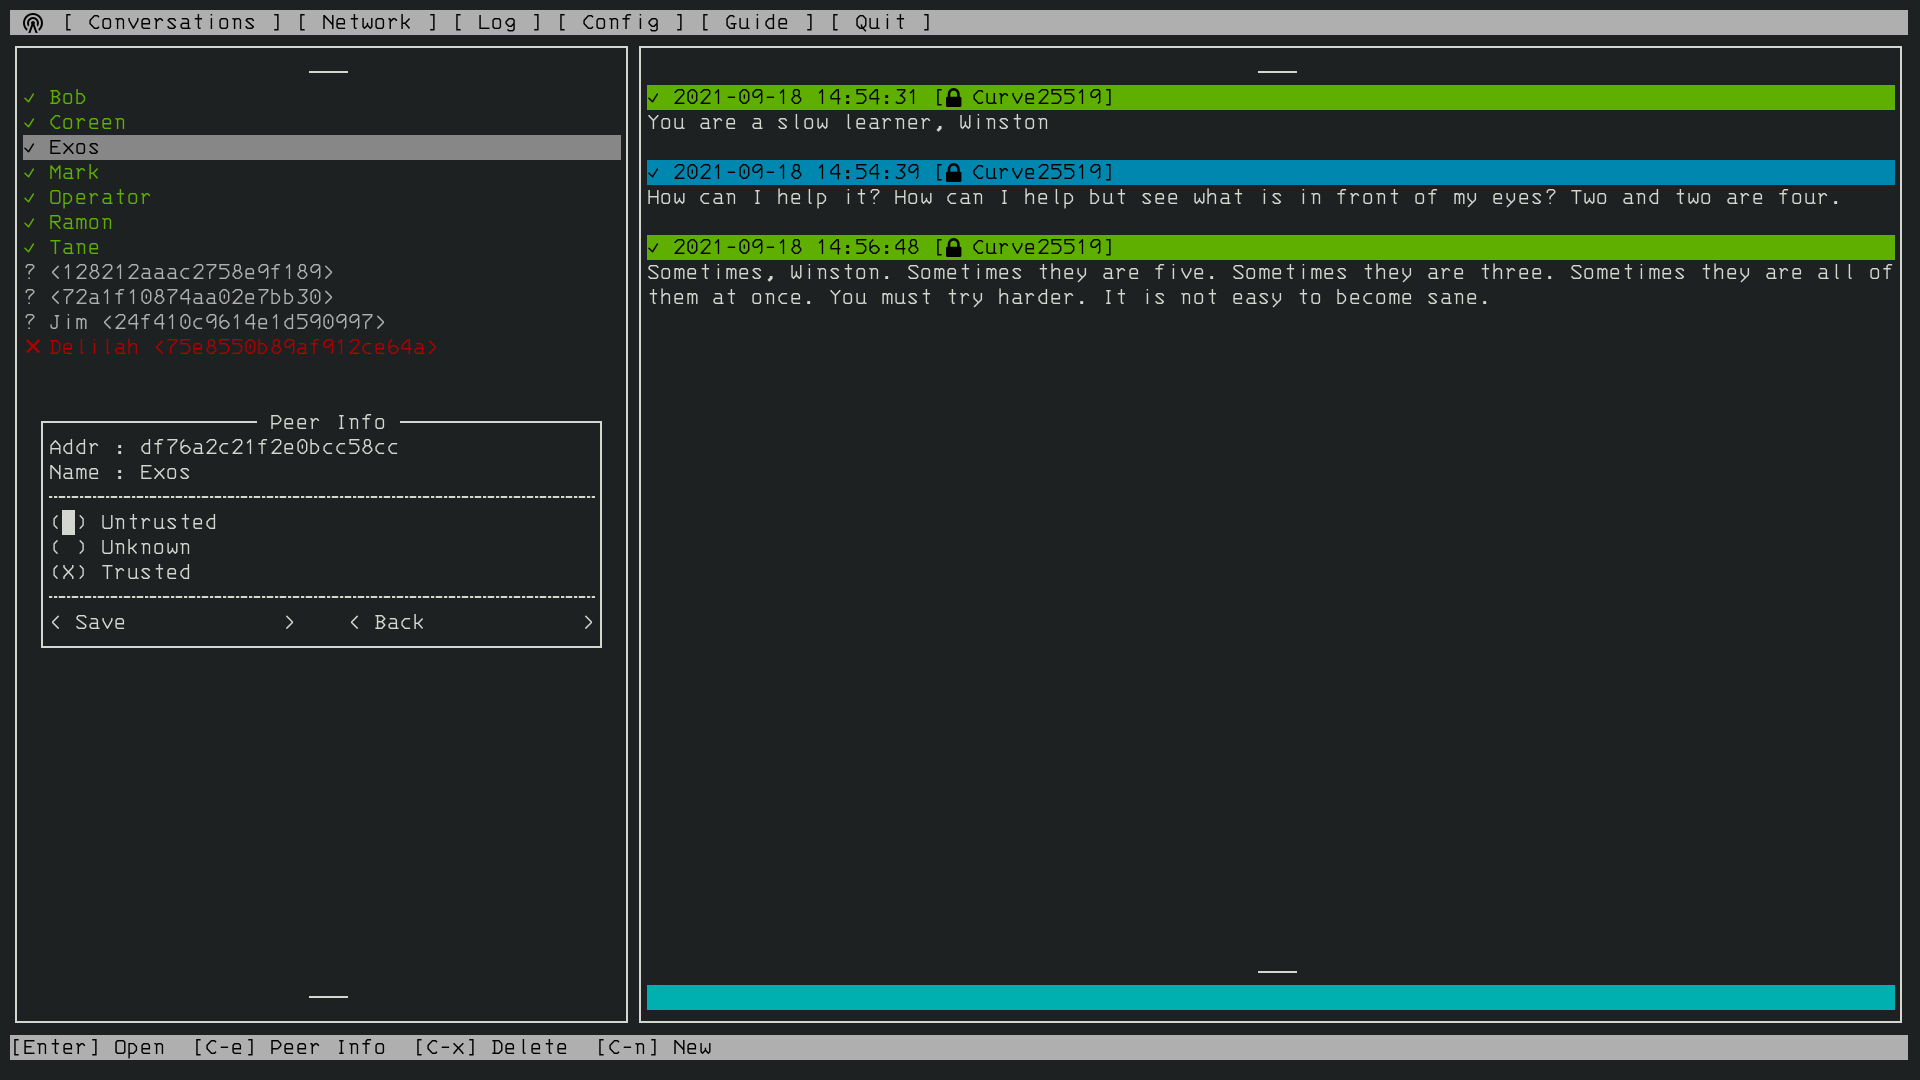
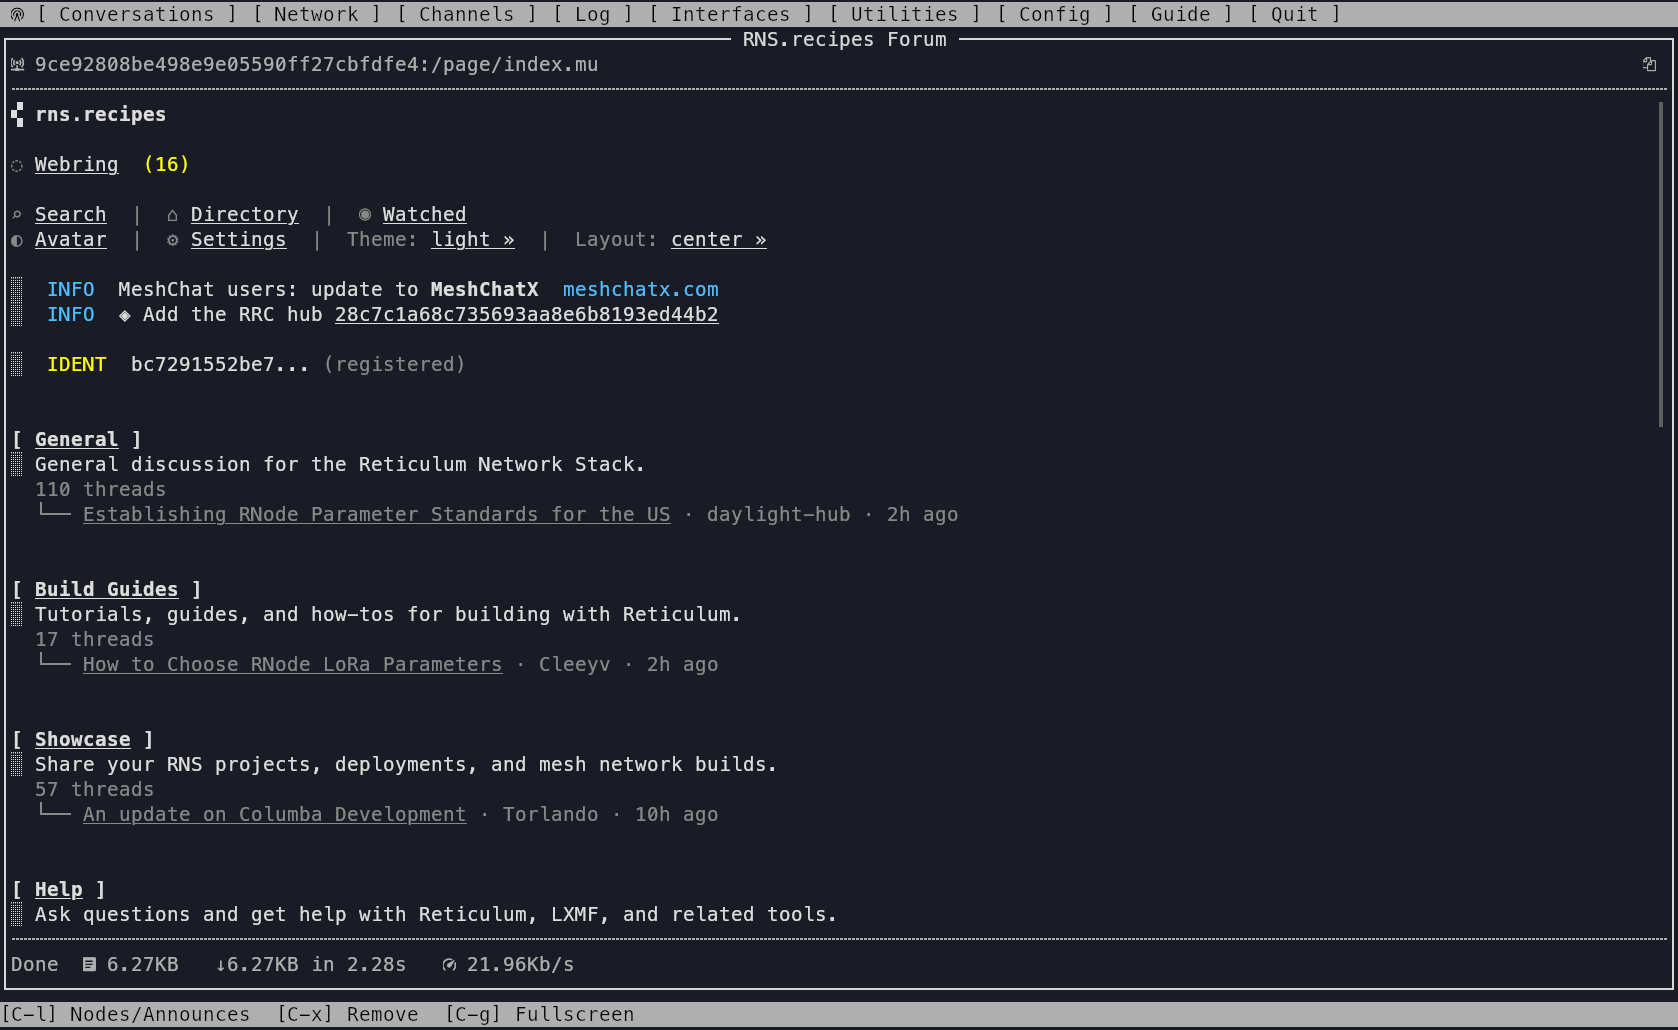
Updated readme

diff --git a/README.md b/README.md
@@ -153,3 +153,5 @@ Nomad Network is beta software, and should be considered as such. Use at your ow
 ![Screenshot 4](https://github.com/markqvist/NomadNet/raw/master/docs/screenshots/4.png)
 
 ![Screenshot 5](https://github.com/markqvist/NomadNet/raw/master/docs/screenshots/5.png)
+
+![Screenshot 6](https://github.com/markqvist/NomadNet/raw/master/docs/screenshots/6.png)
